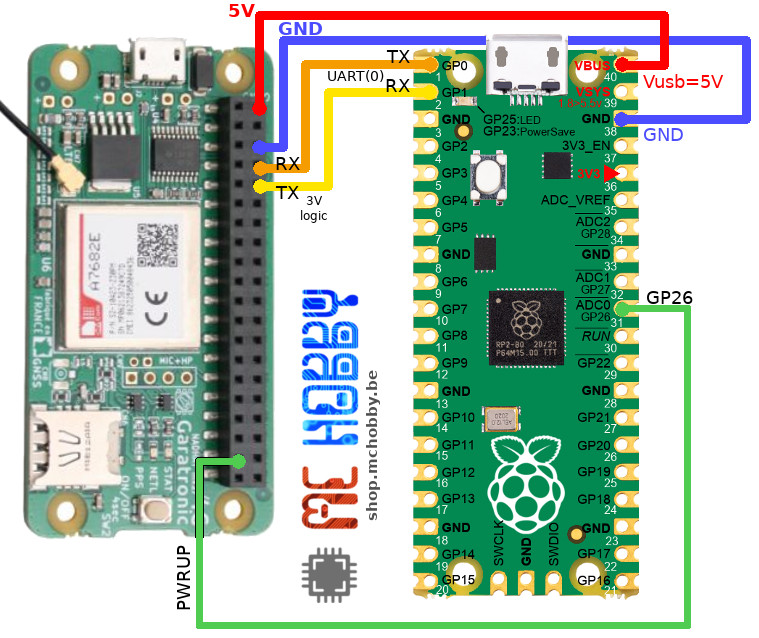
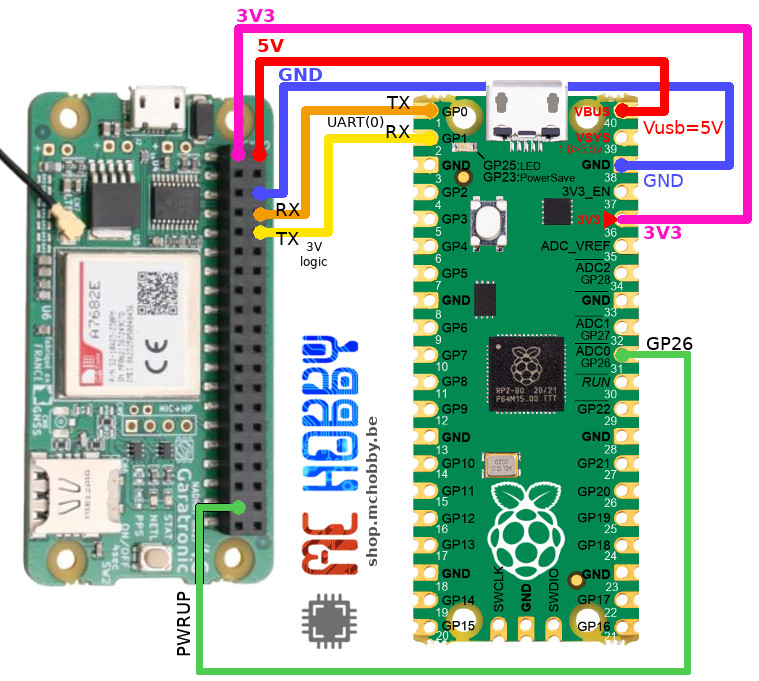
Adding 3v3 to 4G module. Adding Notifications.any()

diff --git a/lib/sim76xx/core.py b/lib/sim76xx/core.py
@@ -87,7 +87,7 @@ class Notifications( collections.deque ):
 
 	def is_urc( self, s ):
 		# Check if s contains an URC (Unsolicited Result Code) message
-		if s.startswith( "VOICE CALL:" ) or (s=="RING") or (s=="CONNECT") or (s=="NO CARRIER"):
+		if s.startswith( "VOICE CALL:" ) or (s=="RING") or (s=="CONNECT") or (s=="NO CARRIER") or (s=='SMS DONE'):
 			return True
 		if any( [ s.startswith(_this) for _this in ("+CLCC:","+CMTI:","+CRING:","+CIPEVENT:","+IPCLOSE:","+CLIENT:") ] ):
 			return True
@@ -135,6 +135,9 @@ class Notifications( collections.deque ):
 		_r = self._has_new
 		self._has_new = False
 		return _r
+
+	def any( self ):
+		return len( self )>0
 
 	def pop( self ):
 		# Return an entry (time,notif_type,str,cargo) # cargo main contains an information parsed from the notification

diff --git a/readme.md b/readme.md
@@ -15,7 +15,7 @@ The library covers:
 * Connecting network,
 * SMS,
 * calling, 
-* phonebook, _--pending--_
+* phonebook, 
 * GPRS, _--pending--_
 * FTP, _--pending--_
 * TCP/IP and HTTP _--pending--_
